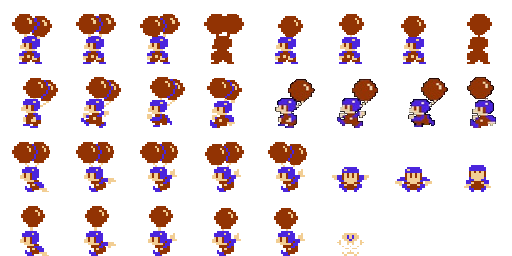
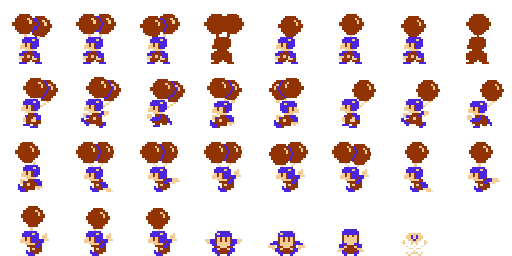
new : 風船一個のアニメーション

diff --git a/SourceFiles/GamePlayer.cpp b/SourceFiles/GamePlayer.cpp
@@ -47,7 +47,7 @@ GamePlayer::~GamePlayer() {
 void GamePlayer::Init() {
 	frameCounter = 0;
 
-	player.hp = 2;
+	player.hp = 1;
 	player.position.x = FIRST_POSITION_X;
 	player.position.y = FIRST_POSITION_Y;
 	player.size.width = 15;
@@ -62,9 +62,6 @@ void GamePlayer::Init() {
 	state[BLINK] = 1;
 	speed[MOVE] = 0.0f;
 	speed[FALL] = 1.0f;
-
-	leftEndX = player.position.x - player.size.width;
-	rightEndX = player.position.x + player.size.width;
 };
 
 void GamePlayer::Update() {
@@ -192,10 +189,6 @@ void GamePlayer::Update() {
 
 	if (player.position.x <= 0) player.position.x = SCREEN_WIDTH - 1;      // 画面左端時
 	else if (SCREEN_WIDTH <= player.position.x) player.position.x = 0 + 1; // 画面右端時
-	leftEndX = player.position.x - player.size.width;
-	if (leftEndX <= 0) leftEndX = SCREEN_WIDTH + leftEndX;
-	rightEndX = player.position.x + player.size.width;
-	if (SCREEN_WIDTH <= rightEndX) rightEndX = rightEndX - SCREEN_WIDTH;
 
 	//////////////////////////////////////////////////////////////////////
 	// 壁の判定と跳ね返り処理
@@ -226,15 +219,18 @@ void GamePlayer::Draw() const {
 	else if (state[COLLIDE] == 0) { // 飛行
 		anim = abs(-2 + (flapCount / 3 % 4));
 		if (flapCount == 0) anim += state[ANIM] / 25 % 3;
-		anim = anim + 16;		
+		anim = anim + 17;
+		if (player.hp == 1) anim += 5;
 	}
 	else if (speed[MOVE] == 0) { // 待機
-		anim = frameCounter / 25 % 3;//anim += 4;
+		anim = frameCounter / 25 % 3;
+		if (player.hp == 1) anim += 4;
 	}
 	else if (state[COLLIDE] == 1) { // 地面
-		anim = state[ANIM] / 5 % 3;//anim += 3;
+		anim = state[ANIM] / 5 % 3;
 		if ((inputX > -0.3 && 0.3 > inputX) || (speed[MOVE] < 0 && inputX >= 0.3) || (0 < speed[MOVE] && -0.3 >= inputX)) anim = 11; // スリップ
 		else anim = anim + 8; // 歩行
+		if (player.hp == 1) anim += 5;
 	};
 
 	// ワープ用にゲーム画面分の間隔をあけて3体描画する

diff --git a/SourceFiles/GamePlayer.h b/SourceFiles/GamePlayer.h
@@ -57,8 +57,6 @@ private:
 	int state[4];   // 当たり判定の状態、左右反転状態、アニメーションのフレームカウンター、最初の点滅フラグ
 	float speed[2]; // 移動、落下速度
 
-	float leftEndX, rightEndX; // ワープ、当たり判定用のプレイヤー左右端側のX位置
-
 	int img_player[30];
 	int snd_se_flight;
 	int snd_se_walk;
@@ -164,8 +162,6 @@ public:
 		DrawFormatString(x, y, GetColor(255, 255, 255), "animState: %d", state[ANIM]);
 		y += 15;
 		DrawFormatString(x, y, GetColor(255, 255, 255), "moveSpeed: %0.1f fallSpeed: %0.1f", speed[0], speed[1]);
-		y += 15;
-		DrawFormatString(x, y, GetColor(255, 255, 255), "leftEndX: %0.0f rightEndX: %0.0f", leftEndX, rightEndX);
 		y += 15;
 		DrawFormatString(x, y, GetColor(255, 255, 255), "frameCounter: %d", frameCounter);
 	};

diff --git a/SourceFiles/GameStage.cpp b/SourceFiles/GameStage.cpp
@@ -18,14 +18,14 @@ GameStage::GameStage() {
 	block[0][2] = 460;
 	block[0][3] = 270;
 
-	block[1][0] = 0;   // 左下
+	block[1][0] = 0 - 20;   // 左下
 	block[1][1] = 430;
 	block[1][2] = 230;
 	block[1][3] = SCREEN_HEIGHT;
 
 	block[2][0] = 370; // 右下
 	block[2][1] = 430;
-	block[2][2] = SCREEN_WIDTH;
+	block[2][2] = SCREEN_WIDTH + 20;
 	block[2][3] = SCREEN_HEIGHT;
 };
 

diff --git a/SourceFiles/GameScene.cpp b/SourceFiles/GameScene.cpp
@@ -47,7 +47,7 @@ AbstractScene* Game::Update() {
 	if (state != 1) player.Update();
 
 	// 仮 - 海に落ちた時の残機処理
-	if (SCREEN_HEIGHT + 100 < (player.GetPosition().y - player.GetSize().height)) {
+	if (SCREEN_HEIGHT + 50 < (player.GetPosition().y - player.GetSize().height)) {
 		if (stock == 0) {
 			state = 1;
 			ui.SetState(-1);
